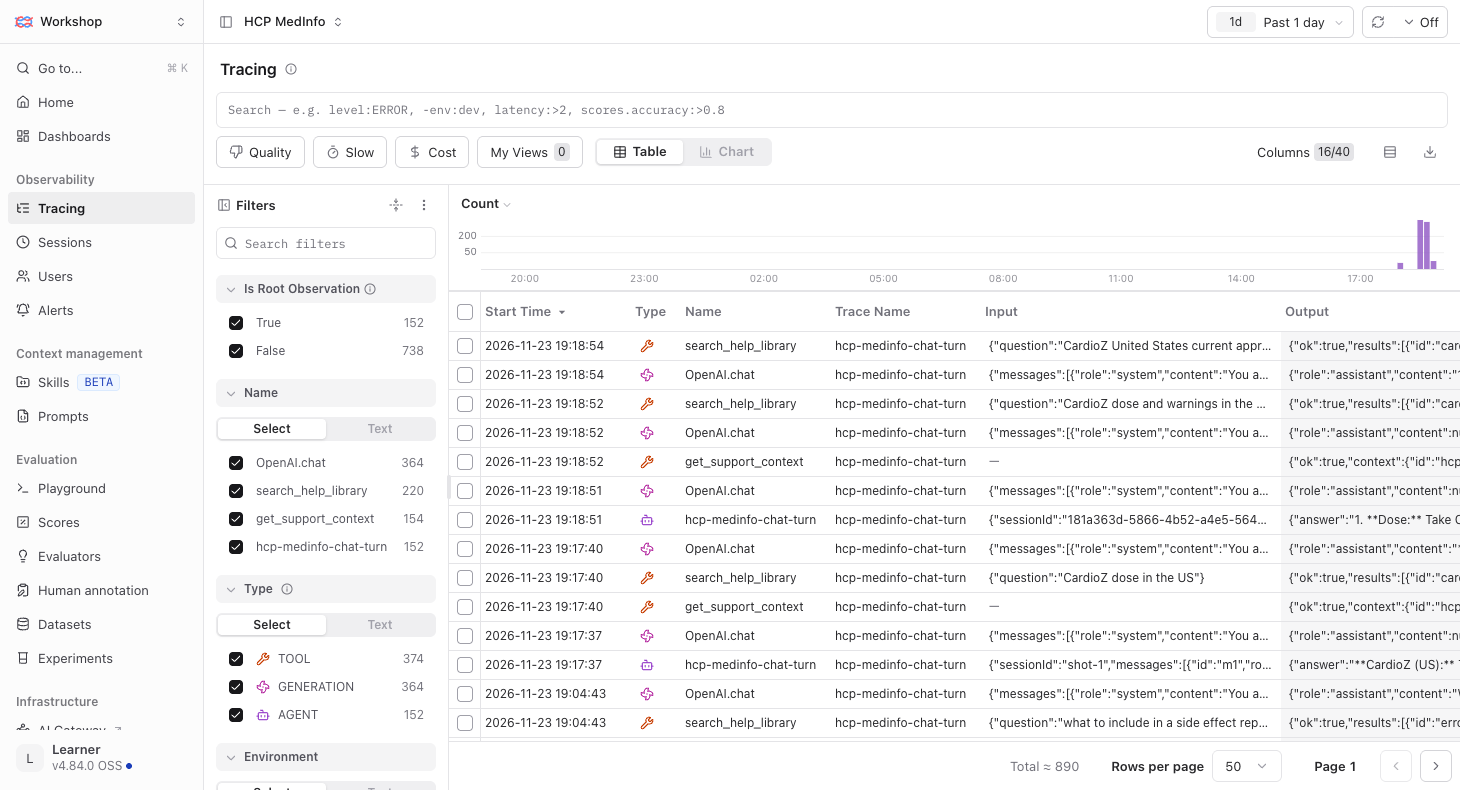
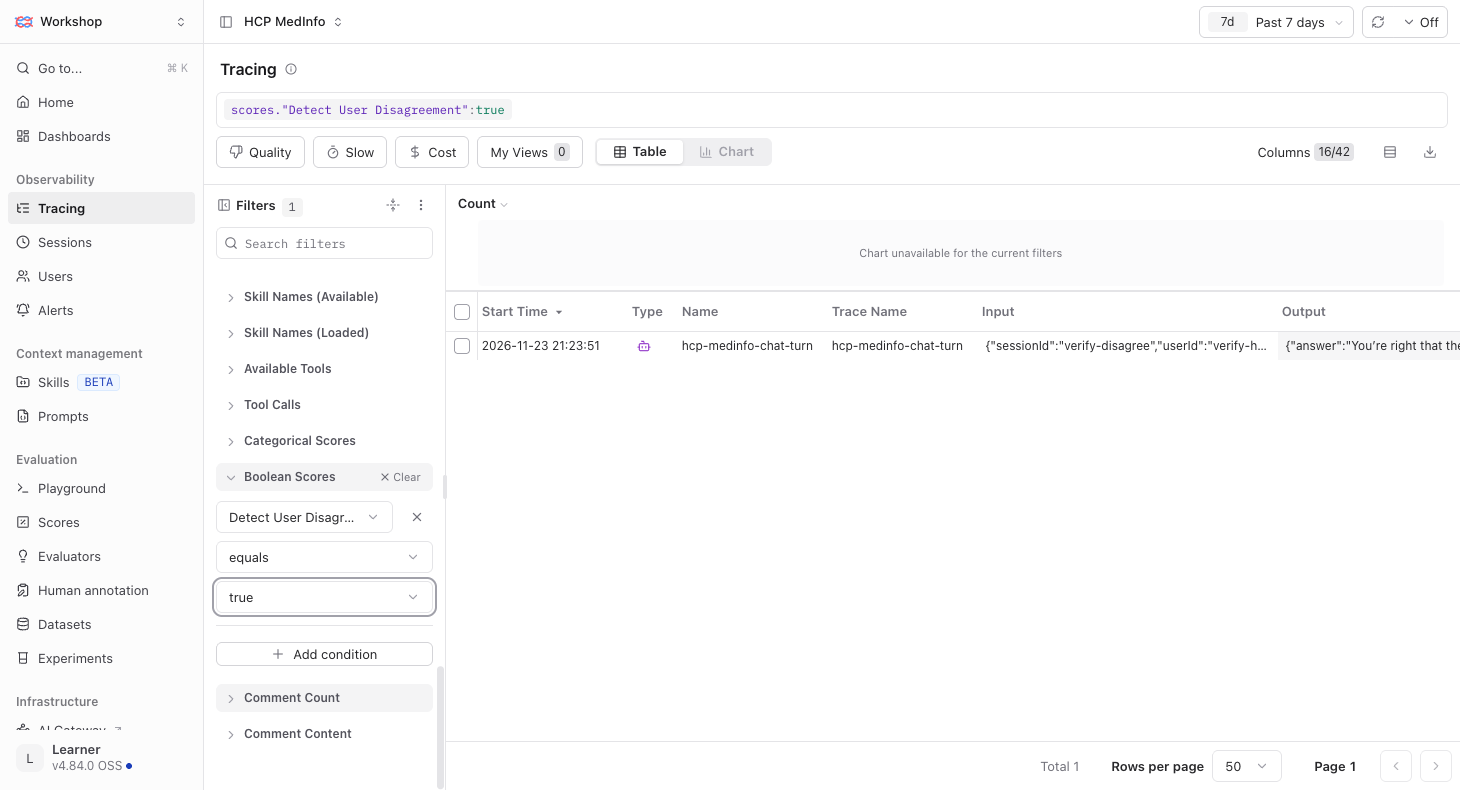
Retake lesson 04 monitoring shots on local Langfuse, drop Halo steps
- Retake the evaluator wizard, mapping, test, execute, code evaluator,
  score filter and dashboard screenshots on the HCP project.
- Remove the three Halo and unused config images.
- Error analysis clusters notes by hand, adds a failure category score
  config and builds the frequency widget.
- Capturing signals builds the Conversation signals dashboard, explains
  the root filter, and notes decision models need a direct connection.
- Run code evaluators locally: LANGFUSE_CODE_EVAL_DISPATCHER=insecure-local
  on langfuse-web and langfuse-worker in workshop.override.yml.

diff --git a/docs/instructor/04-monitoring.md b/docs/instructor/04-monitoring.md
@@ -23,14 +23,14 @@ Demo order:
 
 ### 4.1 Error analysis
 
-- Section 4.1 seeds its own 20 traces with `npm run langfuse:seed:error-analysis`. Seven are ordinary one-turn answers. The other 13 each have exactly one failure: 5 out-of-scope replies (a hotel, a sick note, an off-label use, a billing code, another company's product), 2 replies as "a fellow doctor", 2 replies where the clinician asks who this is and the agent says "I'm a doctor.", and 4 long unstructured replies. The family voice still gives the right steps. It never says "I am your kid." The tell is personal knowledge, such as having used this phone before. The two identity replies are the obvious version of that same failure. Longer sessions are two or three turns, and the failure is only on the latest answer.
+- Section 4.1 seeds its own 20 traces with `npm run langfuse:seed:error-analysis`. Seven are ordinary one-turn answers. The other 13 each have exactly one failure: 5 out-of-scope replies (a hotel, a sick note, an off-label use, a billing code, another company's product), 2 replies as "a fellow doctor", 2 replies where the clinician asks who this is and the agent says "I'm a doctor.", and 4 long unstructured replies. The fellow-doctor voice still gives the right label facts. The tell is personal knowledge, such as its own patients or a congress it says it attended. The two identity replies are the obvious version of that same failure. Longer sessions are two or three turns, and the failure is only on the latest answer.
 - The queue is named `error analysis` and created with `open coding` (Text) and `pass or fail` (Categorical: pass and fail). The annotations seed only finds a queue and configs with those exact names. Select the last 20 traces, tagged `error-analysis-seed`. A queue does not pick up score configs added later.
 - `npm run langfuse:seed:error-analysis:annotations` fills that queue for a demo. It adds the tagged root observations, writes an open-coding note and a pass or fail mark on each, and marks those items completed. The notes describe the reply and do not name the clusters. Learners still write their own notes in the lab. Running it again updates the same scores.
-- Do not hand them the cluster names before they have written the open-coding notes. After the set, they ask Halo to find clusters. The expected names (out of scope, impersonation, and lengthy responses) are in a collapsed block on the page. That list is a check, not the Halo prompt. They judge each trace against three expectations: structured and easy to follow, phone IT support only, and the agent talks about itself as an AI agent.
-- Ask Halo to create categorical scores for the clusters it found. If Halo words them differently, map those names to the three decisions before the second pass. They then assign each failing trace.
-- Halo builds the frequency dashboard. The page shows the shape: one bar per failure category, and the longest bar is the failure that shows up most often. The picture is the layout, not the counts from this 20-trace lab.
+- Do not hand them the cluster names before they have written the open-coding notes. After the set, they cluster their own notes by hand. The expected names (out of scope, impersonation, and lengthy responses) are in a collapsed block on the page. That list is a check, not a template. They judge each trace against three expectations: structured and easy to follow, our medicines only, and the agent talks about itself as an AI agent.
+- They create a `failure category` Categorical score config in **Settings → Scores**, add it to the `error analysis` queue, and assign each failing trace on a second pass. If their cluster names differ, map them to the three decisions first.
+- They build the frequency chart as a **Scores Categorical** widget broken down by value. The page shows the shape: one bar per failure category, and the longest bar is the failure that shows up most often. The picture is the layout, not the counts from this 20-trace lab.
 - Open with why the lab is worth doing: concrete failures from real cases, an underspecified system prompt, a count you can prioritize, and a shared picture for engineers, domain experts, and PMs.
-- Close on the categories and what to do about them, then the more specific prompt. Out of scope: a polite decline that says the agent only covers our medicines, plus a production monitor. Impersonation: the agent answers as the medical information agent, including when the clinician asks who this is, with optional monitoring. Lengthy responses: short numbered steps, with an optional production monitor. Then read the Rules section: a short numbered list, a refusal for anything other than IT help, one clarifying question when the request is vague, clear instructions on what to tap, and a line that the agent does not speak as family. Do not publish it in this lab; learners publish it in 07 as the comparison against the baseline experiment. Then one line into capturing signals.
+- Close on the categories and what to do about them, then the more specific prompt. Out of scope: a polite decline that says the agent only covers our medicines, plus a production monitor. Impersonation: the agent answers as the medical information agent, including when the clinician asks who this is, with optional monitoring. Lengthy responses: short numbered steps, with an optional production monitor. Then read the Rules section: a short numbered list, current labels only, a refusal for anything other than our medicines, a question when the medicine or country is missing, the side-effect reporting line, and a line that the agent does not speak as a doctor. Do not publish it in this lab. Learners publish it in 07 as the comparison against the baseline experiment. Then one line into capturing signals.
 
 ### 4.2 Capturing signals
 
@@ -38,27 +38,27 @@ Demo order:
 - The API keys in `.env` do not configure the judge model inside Langfuse. Learners add an OpenAI-type connection with the OpenRouter base URL in this section, before they pick `openai/gpt-6-luna`.
 - Both evaluators target the logical root `hcp-medinfo-chat-turn` agent observation, because that observation carries the conversation input and the final answer.
 - The disagreement judge should run on `openai/gpt-6-luna` from the OpenRouter connection.
-- Have learners use the right-side sample panel, filtered to `production`. In **Map variables to data**, bind variables with **Use** on the observation tree: `conversation_history` on **Input → messages**, `last_user_message` on **Input → messages → last**. Do not have them type a JSONPath. Test before saving.
+- Have learners use the right-side sample panel. It already filters on `isRootObservation:true`. They pick an `hcp-medinfo-chat-turn` AGENT row. In **Map variables to data**, bind variables with **Use** on the observation tree: `conversation_history` on **Input → messages**, `last_user_message` on **Input → messages → last**. Do not have them type a JSONPath. Test before saving.
 - `{{system_prompt}}` belongs to **Detect Out-of-Scope Request**. This section maps `conversation_history` on **Detect User Disagreement**.
 - After **Create evaluator**, review filters, estimated weekly volume and cost, and sampling rate, then click **Execute**.
 - Execute scores observations that arrive afterwards. Traces already in the project are the mapping sample, not an automatic backfill. The two chat turns in Step 3 are what should light up. Historical scoring is batch evaluation, and re-running a seed is the wrong way to get scores.
-- The ALL-CAPS template is there to show a deterministic signal that needs no model call.
-- After the two live turns, they can ask Halo to chart the conversation signals. Stay on a page Halo can use as context, open the **Dashboard** tab, and ask for a dashboard of the signals they evaluate. The page shows one result: a chart per score over the past week.
-- The bonus is optional. In the evaluator library, **Detect conversation signals** is a decision-model template: one call scores several conversation signals at once. Have them test one or two examples and save. Do not replace the disagreement judge or the all-caps evaluator with it. There is no screenshot of that template yet.
+- The ALL-CAPS template is there to show a deterministic signal that needs no model call. Locally it runs in the worker because `langfuse/workshop.override.yml` sets `LANGFUSE_CODE_EVAL_DISPATCHER: insecure-local`. If saving says code evaluations are not enabled, the stack was started without the override file.
+- After the two live turns, they build a **Scores Boolean** widget filtered to `true` and broken down by name, and add it to a `Conversation signals` dashboard. The seeded traffic already has signal scores, so the bars are not empty.
+- The bonus is optional. A **Decision model** evaluator scores several signals in one call, but it needs a direct OpenAI, Google AI Studio or TypeSafe connection. With only OpenRouter, skip it. Do not replace the disagreement judge or the all-caps evaluator with it.
 
 ## Demo rhythm
 
 1. Walk the overview: volume, dashboards, error analysis, signals. Each way has one screenshot: the home dashboard, failure categories, and conversation signals. Open the dashboards docs only long enough to show where cost and latency aggregates live, and say why those fields have to be on the trace.
-2. Error analysis: run `npm run langfuse:seed:error-analysis` once, queue the last 20 in `error analysis` with `open coding` (Text) and `pass or fail` (Categorical), mark pass or fail, write the notes, ask Halo to find clusters, compare them with the rough list on the page, ask Halo to create categorical scores for those clusters, assign them on a second pass, ask Halo for the frequency dashboard, then land the three decisions and read the more specific prompt under them. Do not publish it in this lab. Point to capturing signals.
-3. Capturing signals: add the OpenRouter connection, pick `openai/gpt-6-luna`, create **Detect User Disagreement** on a production root observation, map both variables, test, create, and execute.
+2. Error analysis: run `npm run langfuse:seed:error-analysis` once, queue the last 20 in `error analysis` with `open coding` (Text) and `pass or fail` (Categorical), mark pass or fail, write the notes, cluster them by hand, compare them with the rough list on the page, create the `failure category` score config, assign it on a second pass, build the frequency widget, then land the three decisions and read the more specific prompt under them. Do not publish it in this lab. Point to capturing signals.
+3. Capturing signals: add the OpenRouter connection, pick `openai/gpt-6-luna`, create **Detect User Disagreement** on a root `hcp-medinfo-chat-turn` observation, map both variables, test, create, and execute.
 4. Create **Detect User Frustration (ALL CAPS)** on the same root, test, create, and execute.
-5. Send one disagreement turn and one ALL-CAPS turn. In **Tracing**, filter by the evaluator score to find them. If time remains, ask Halo on the **Dashboard** tab to chart those signals over time.
-6. If time remains, open the bonus: evaluator library → **Detect conversation signals**, test on one or two examples, save.
+5. Send one disagreement turn and one ALL-CAPS turn. In **Tracing**, filter by the evaluator score to find them. If time remains, build the `Conversation signals` dashboard.
+6. If time remains and someone has a direct OpenAI key, open the bonus: a **Decision model** evaluator with one question per signal.
 
 ## Watch for
 
 - Re-running the error-analysis seed. Each run mints new trace IDs.
-- Treating the overview's dashboard link as a configuration step. The signals section is where Halo builds a chart of the scores.
+- Treating the overview's dashboard link as a configuration step. The signals section is where learners build a chart of the scores.
 - Skipping the reading in error analysis and jumping straight to evaluator templates.
 - Starting the disagreement judge with an empty model list. That list is the project's LLM connections.
 - Accidentally choosing **Out-of-Scope Request** instead of **Detect User Disagreement**. Out-of-Scope Request's first variable is `system_prompt`.

diff --git a/docs/learner/04-monitoring/capturing-signals.md b/docs/learner/04-monitoring/capturing-signals.md
@@ -53,7 +53,7 @@ Langfuse ships a published **Detect User Disagreement** template. It is an LLM-a
 Pick **Detect User Disagreement** for the mapping in this step.
 
 1. In Langfuse, open **Evaluators → New Evaluator** and pick **Detect User Disagreement** from the **Template Gallery**.
-2. On the right side, select the trace root as a sample observation. Filter to the `production` environment if the panel is showing something else. We are targeting the root observation of type Agent, the place where the overall trace input and output is logged. **Hint**: If you hover over the filters in the filter bar, you will see what each of those filter out. You can also 'Ask AI' to configure your filters.
+2. On the right side, select the trace root as a sample observation. The panel already filters on `isRootObservation:true`, so pick an `hcp-medinfo-chat-turn` row of type **AGENT**. That is the root observation, where the overall trace input and output is logged. **Hint**: hover a filter chip to see what it filters out.
 
    ![Select the trace root as a sample observation in the evaluator setup panel.](../../images/monitoring/select-sample-observation.png)
 
@@ -70,7 +70,7 @@ Pick **Detect User Disagreement** for the mapping in this step.
 
    ![Test the User Disagreement evaluator on the selected sample observation.](../../images/monitoring/user-disagreement-test-evaluator.png)
 
-5. Finally click on **Create evaluator**. In the upcoming screen you can see a rough cost estimation per week and set a sampling rate. As soon as you click on execute, your first evaluator is running.
+5. Finally click on **Create evaluator**. The next screen shows which observations the evaluator scores, a sampling rate, and a weekly cost estimate (locally it can read **Unavailable**). Leave **Run evaluator on past observations** off. As soon as you click **Execute**, your first evaluator is running.
 
    ![Execute the saved evaluator on incoming observations using the configured filters.](../../images/monitoring/user-disagreement-execute-evaluator.png)
 
@@ -90,7 +90,7 @@ Code evaluators are a good fit for that pattern: no model call, no prompt design
 3. Run a test on the evaluator.
 4. Click on **Create Evaluator** and then on execute.
 
-This evaluator runs as TypeScript inside Langfuse's sandbox, so it does not use the OpenRouter connection.
+This evaluator runs as TypeScript, so it does not use the OpenRouter connection. Langfuse Cloud runs it in a sandbox. The local Langfuse runs it inside its worker, which `langfuse/workshop.override.yml` turns on with `LANGFUSE_CODE_EVAL_DISPATCHER: insecure-local`. Without that line, saving shows "Code evaluations are not enabled for this deployment".
 
 ## Step 3: Verify the monitors
 
@@ -112,11 +112,16 @@ In Langfuse, wait for the evaluators to run (refresh after a few seconds), then 
 
 ![Filter Tracing for traces with a specific evaluator score.](../../images/monitoring/filter-traces-by-evaluator-score.png)
 
-Locally, build a dashboard in **Dashboards → New dashboard** with one chart per score. On Langfuse Cloud you can also ask Halo to turn conversation signals into a dashboard to see the developments over time. Stay on a page Halo can use as context, open the **Dashboard** tab, and ask it to chart the signals you evaluate.
+To watch the signals over time, put them on a dashboard:
 
-![Ask Halo, on the Dashboard tab, to chart the conversation signals over time.](../../images/monitoring/halo-conversation-signals-prompt.png)
+1. Open **Dashboards → Widgets → New widget**.
+2. Pick the **Scores Boolean** view, add the filter **Boolean Value** `=` `true`, and break it down by **Name**.
+3. Name it `Conversation signals (true)`, choose **Horizontal Bar Chart**, and save.
+4. Open **Dashboards → New dashboard**, name it `Conversation signals`, choose **Add Widget**, and pick the widget. Set the range to the past 7 days.
 
-![A dashboard of conversation signals, with one chart per score.](../../images/monitoring/user-frustration-dashboard.png)
+![A dashboard of conversation signals, with one bar per signal score.](../../images/monitoring/user-frustration-dashboard.png)
+
+The seeded traffic already carries signal scores, so the bars are not empty before your own two turns.
 
 User disagreement is a high-signal event. When a user pushes back on an answer the agent just gave, something almost certainly went wrong: wrong tool result, missing context, an answer from a label for the wrong country. These are the traces you want to read first, and they're prime candidates to turn into dataset items in [05 Build eval datasets](../05-dataset.md).
 
@@ -128,12 +133,13 @@ Open a few traces already in the project and compare them with the two turns you
 
 A [decision model](https://langfuse.com/docs/evaluation/evaluation-methods/decision-models) returns a typed answer for each question instead of free-form text, so it is the cheaper evaluator when you do not need written reasoning.
 
-Using this, we can capture a variety of signals at once.
+Using this, we can capture a variety of signals in one call.
 
-1. Go to the evaluator library.
-2. Select **Detect conversation signals**.
-3. Test it on one or two examples.
-4. Save.
+1. Open **Evaluators → New Evaluator** and choose **Decision model**.
+2. Add one question per signal, for example a yes or no "Does the user disagree with the last answer?" and a score "How frustrated is the clinician?".
+3. Test it on one or two root observations and save.
+
+Decision models need a direct OpenAI, Google AI Studio or TypeSafe connection. The OpenRouter connection from this lab does not appear there, so skip this bonus unless you have one of those keys.
 
 ## Wrap-up
 

diff --git a/AGENTS.md b/AGENTS.md
@@ -57,7 +57,7 @@ Canonical progression:
 - `01-base-app`: working HCP Medical Information Agent on the official OpenAI SDK, with one fixed desk context, two local tools, and no Langfuse tracing yet.
 - `02-tracing`: learners add Langfuse tracing on top of the base app with OpenTelemetry setup, `observeOpenAI(new OpenAI())`, `observe(...)` wrappers around app/tool functions, and optional `propagateAttributes(...)` for user/session metadata.
 - `03-prompt-management`: learners replace the code-only prompt path with a Langfuse-managed prompt plus local fallback.
-- `04-monitoring`: starts from the traced app and stable message-array trace shape. The overview introduces dashboards, error analysis, and production signals. Error analysis seeds 20 traces with `npm run langfuse:seed:error-analysis` (7 ordinary one-turn answers and 13 single-failure traces: out-of-scope replies, impersonation, and lengthy responses), then an `error analysis` annotation queue with `open coding` (Text) and `pass or fail` (Categorical), which `npm run langfuse:seed:error-analysis:annotations` can fill for learners short on time, and Halo (Cloud only, done by hand locally) clusters the notes, creates the category scores, and builds the frequency dashboard. Capturing signals is the evaluator setup: learners add an OpenRouter connection, then variable mapping and Langfuse UI, on those message-array observations.
+- `04-monitoring`: starts from the traced app and stable message-array trace shape. The overview introduces dashboards, error analysis, and production signals. Error analysis seeds 20 traces with `npm run langfuse:seed:error-analysis` (7 ordinary one-turn answers and 13 single-failure traces: out-of-scope replies, impersonation, and lengthy responses), then an `error analysis` annotation queue with `open coding` (Text) and `pass or fail` (Categorical), which `npm run langfuse:seed:error-analysis:annotations` can fill for learners short on time, then learners cluster the notes by hand, add a `failure category` Categorical score, and build the frequency widget. Capturing signals is the evaluator setup: learners add an OpenRouter connection, then variable mapping and Langfuse UI, on those message-array observations.
 - `05-dataset` ("Build eval datasets"): decides what to evaluate (correct answers and reply/defer/follow-up behavior), then seeds 27 items with message-array inputs plus expected outputs. Each item names its source label ids in `metadata.source` and its skill (simple-llm, rag, agent, classification, agentic) in `metadata.skill`.
 - `06-experiments`: runs the app against the Langfuse dataset with the SDK experiment runner and two `runExperiment` callback evaluators, one per goal from `05-dataset`: `behavior_match` (OpenAI Decisions API label plus deterministic exact match against `expectedBehavior`) and an in-script LLM-as-a-judge `correctness` score used as the regression check. Platform evaluators are optional bonus only (they need existing experiment data to configure).
 - `07-evaluation`: publishes the more specific prompt from the end of `04-monitoring` error analysis (`WORKSHOP_PROMPT_VARIANT=error-analysis`), reruns the same dataset, and compares the baseline run from `06-experiments` against it with the same `behavior_match` and `correctness` callback scores side by side.

diff --git a/docs/learner/04-monitoring/error-analysis.md b/docs/learner/04-monitoring/error-analysis.md
@@ -1,6 +1,6 @@
 ---
 title: "Workshop: 4.1 Error Analysis"
-description: "Seed 20 traces, annotate them in a queue, and use Halo to cluster failure modes, create category scores, and chart how often each one appears."
+description: "Seed 20 traces, annotate them in a queue, cluster the notes into failure modes, add a category score, and chart how often each one appears."
 ---
 
 # 4.1 Error analysis
@@ -35,7 +35,7 @@ We use 20 sample traces to get started. Usually 50–100 sample traces are recom
 To be able to judge the outputs, we need to establish a few expectations towards the application:
 
 - The agent shall always respond in a structured and easy to understand manner, so the user can follow.
-- The agent is made specifically for IT support questions, more specifically for phone help.
+- The agent answers questions about our medicines only, from the approved label for the right country.
 - The agent should talk about itself as an AI agent and not pretend to be something or someone else.
 
 ## Step 1: Gather traces
@@ -60,11 +60,9 @@ In [Tracing](http://localhost:3000/project/hcp-medinfo/traces), select the last 
 
 ## Step 3: Cluster into categories
 
-Halo is an AI feature of Langfuse Cloud. The local Langfuse in this repo does not turn it on, so on a local run do this step by hand: read the notes, name the clusters yourself, and add the category scores in **Settings → Scores**.
+Read your `open coding` notes for the failing traces side by side. Group the notes that describe the same problem, and give each group a short name. Three or four groups is plenty for 20 traces.
 
-On Cloud, after the set, ask Halo to find clusters. Stay on the annotation queue so the current page is in context, open Halo, and ask it to cluster the annotations.
-
-![Ask Halo to cluster the annotations into failure modes.](../../images/monitoring/halo-cluster-annotations.png)
+A quick way to see all notes at once: open **Scores**, search `name:"open coding"`, and read the **Comment** column.
 
 <details>
 <summary>The clusters should look roughly like this</summary>
@@ -77,9 +75,10 @@ On Cloud, after the set, ask Halo to find clusters. Stay on the annotation queue
 
 ## Step 4: Label and measure
 
-1. Ask Halo to create categorical scores for the clusters it found.
-2. Go through the queue again and assign each failing trace to a category.
-3. Ask Halo to build a dashboard for the frequency of each category. One bar per failure. The longest bar is the failure that shows up most often.
+1. Open **Settings → Scores** and create a score config named `failure category`, of type **Categorical**, with one category per cluster you named.
+2. Open **Human annotation**, edit the `error analysis` queue, and add `failure category` to its score configs.
+3. Go through the queue again and assign each failing trace to a category.
+4. Open **Dashboards → Widgets → New widget**. Pick the **Scores Categorical** view, filter on the score name `failure category`, break it down by the string value, and choose **Horizontal Bar Chart**. Save it and add it to a dashboard. One bar per failure. The longest bar is the failure that shows up most often.
 
    ![Failure categories, with one bar per failure mode.](../../images/monitoring/failure-categories.png)
 

diff --git a/docs/instructor/00-setup.md b/docs/instructor/00-setup.md
@@ -9,7 +9,7 @@ Learner guide: [00 Setup](../learner/00-setup.md)
 
 ## Instructor notes
 
-- Every learner runs the same pinned Langfuse from `langfuse/docker-compose.yml`, so the UI matches the screenshots. Halo is Cloud only. The lesson 04 steps that use it say how to do them by hand.
+- Every learner runs the same pinned Langfuse from `langfuse/docker-compose.yml`, so the UI matches the screenshots. Lesson 04 clusters failures and builds dashboards by hand, because the AI features are Cloud only.
 - Use `checkpoint/00-setup` as the stable base-app checkout. It should be equivalent to `checkpoint/01-base-app`, not the complete reference app.
 - `main` contains the complete reference implementation, but learners should use the checkpoint so setup and base-app orientation share the same starting state.
 - Make learners confirm the UI loads at `127.0.0.1:3333` and that a suggestion-chip chat turn returns a real answer.

diff --git a/docs/learner/04-monitoring.md b/docs/learner/04-monitoring.md
@@ -39,7 +39,7 @@ Chat agents benefit from capturing signals. Any agent that interacts with a pers
 
 For the agent, we start with two conversation signals. We identify whether the clinician disagrees with the answer, and whether the clinician is writing in all caps. Both are strong signs that the last answer failed, or at least that the conversation is worth looking into.
 
-![Conversation signals over time, one chart per score.](../images/monitoring/user-frustration-dashboard.png)
+![Conversation signals on a dashboard, one bar per signal score.](../images/monitoring/user-frustration-dashboard.png)
 
 The Academy page on [capturing signals](https://langfuse.com/academy/monitoring/capturing-signals) maps explicit ratings, behavioral signals, conversation signals, and outcomes.
 

diff --git a/README.md b/README.md
@@ -8,7 +8,7 @@ The workshop is the hands-on version of many concepts explained in the [Langfuse
 
 You can complete the workshop on your own from the learner lessons, or use the instructor notes to teach the same material to a group.
 
-> Langfuse runs on your machine from [`langfuse/`](./langfuse/), and the model runs on OpenRouter. The Halo steps in lesson 04 need Langfuse Cloud, and each one says how to do it by hand locally.
+> Langfuse runs on your machine from [`langfuse/`](./langfuse/), and the model runs on OpenRouter. Every lesson runs on that local stack.
 
 ## Run it
 
